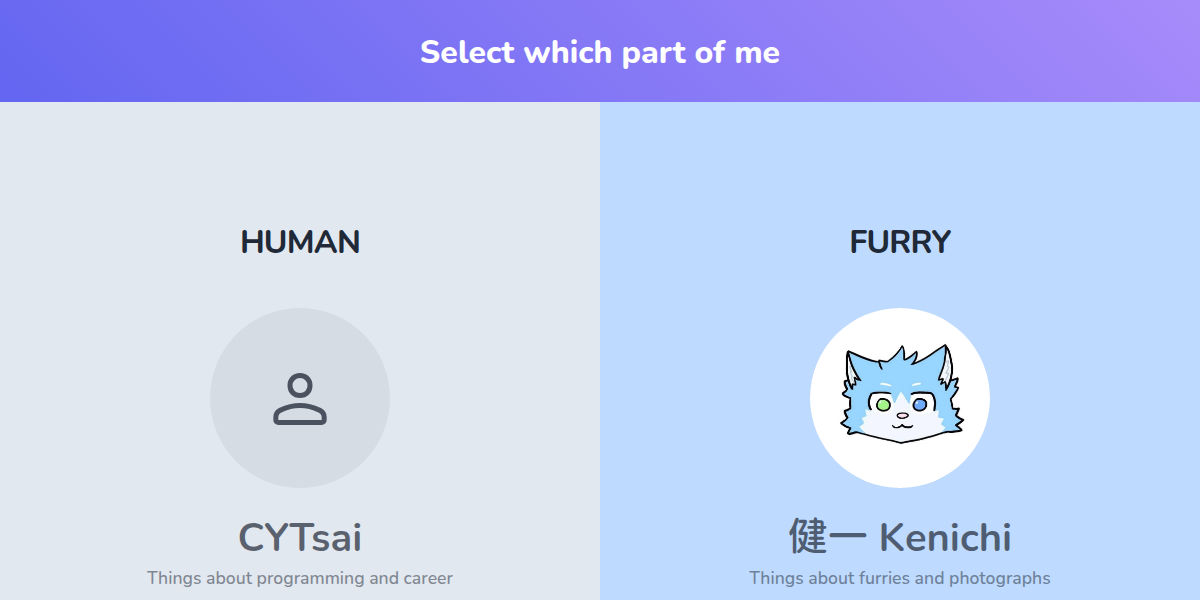
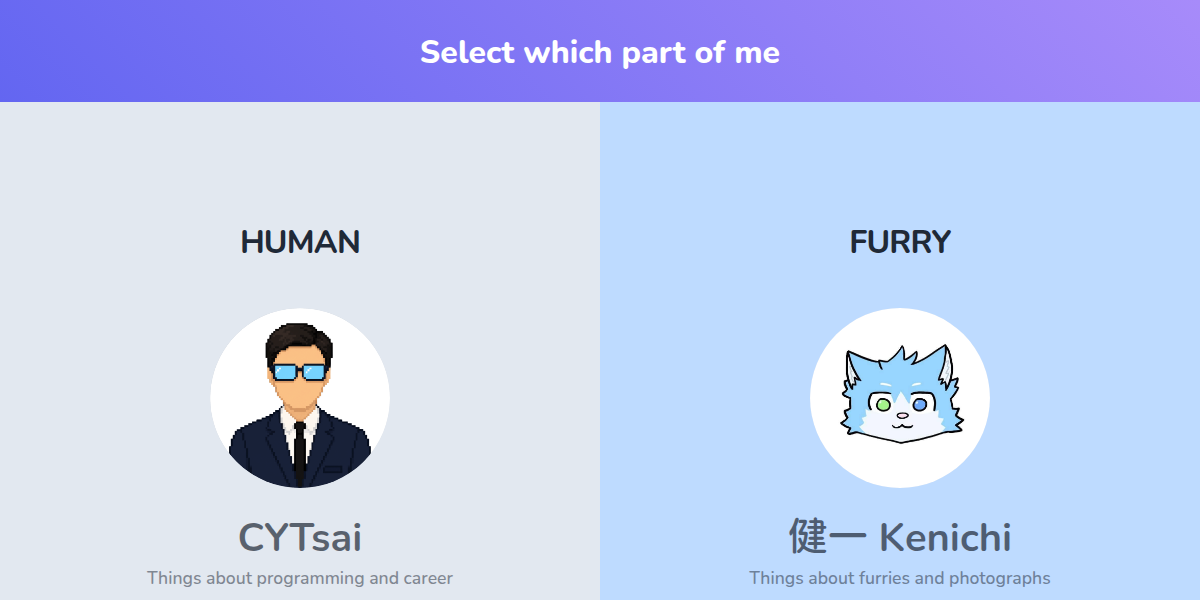
deploy: 8c345a34f462c4d85bce13f67262ac0d6268f400

Changed region(s): [[0.1542, 0.51, 0.3392, 0.81]]

diff --git a/index.html b/index.html
@@ -1,1 +1,1 @@
-<!DOCTYPE html><html lang="en"><meta charset="UTF-8"><meta name="viewport" content="width=device-width,initial-scale=1,viewport-fit=cover"><title data-translate="title">Welcome to photocat.blue</title><link rel="icon" href="assets/img/favicon.svg" type="image/svg+xml"><link rel="icon" href="assets/img/favicon-32.png" type="image/png" sizes="32x32"><link rel="icon" href="assets/img/favicon-16.png" type="image/png" sizes="16x16"><link rel="preload" href="assets/img/furry_avatar.png" as="image"><link rel="preconnect" href="https://fonts.googleapis.com"><link rel="preconnect" href="https://fonts.gstatic.com" crossorigin><link href="https://fonts.googleapis.com/css2?family=Chiron+GoRound+TC:wght@200..900&display=swap" rel="stylesheet"><link href="https://fonts.googleapis.com/css2?family=Material+Symbols+Rounded:opsz,wght,FILL@24..48,100..700,0..1&icon_names=brightness_auto,dark_mode,light_mode,person,search_off" rel="stylesheet"><link rel="stylesheet" href="style.css"><noscript><style>.material-symbols-rounded{opacity:1}</style></noscript><meta property="og:url" content="https://photocat.blue/"><meta property="og:type" content="website"><meta property="og:title" content="Welcome to photocat.blue"><meta property="og:description" content="The main website of CYTsai / Kenichi."><meta property="og:image" content="https://photocat.blue/assets/img/screenshot.png"><meta property="og:image:width" content="1200"><meta property="og:image:height" content="600"><meta name="twitter:card" content="summary_large_image"><meta property="twitter:domain" content="cytsai1008.github.io"><meta property="twitter:url" content="https://photocat.blue/"><meta name="twitter:title" content="Welcome to photocat.blue"><meta name="twitter:description" content="The main website of CYTsai / Kenichi."><meta name="twitter:image" content="https://photocat.blue/assets/img/screenshot.png"><script async src="https://www.googletagmanager.com/gtag/js?id=G-SQ0794KNB9"></script><script>function gtag(){dataLayer.push(arguments)}window.dataLayer=window.dataLayer||[],gtag("js",new Date),gtag("config","G-SQ0794KNB9")</script><script type="text/javascript">!function(t,e,n,c,r,a,s){t[n]=t[n]||function(){(t[n].q=t[n].q||[]).push(arguments)},(a=e.createElement(c)).async=1,a.src="https://www.clarity.ms/tag/vu4ufrmc3w",(s=e.getElementsByTagName(c)[0]).parentNode.insertBefore(a,s)}(window,document,"clarity","script")</script><meta name="darkreader-lock"><a href="#main-content" class="skip-link">Skip to main content</a><header class="main-header"><h1 data-translate="headerTitle">Select which part of me</h1></header><div class="main-container"><div class="desktop-layout"><a href="https://cytsai.photocat.blue" class="life-section real-life" id="main-content"><div class="section-header"><h2 class="section-title" data-translate="realLifeTitle">Human</h2></div><div class="profile-container"><div class="profile-image"><span class="material-symbols-rounded" aria-hidden="true">person</span></div><div class="name-section"><div class="name-text" data-translate="realLifeName">CYTsai</div><div class="subtitle-text" data-translate="realLifeSubtitle">Things about programming and career</div></div></div></a><a href="https://kenichi.photocat.blue" class="life-section furry-life"><div class="section-header"><h2 class="section-title" data-translate="furryLifeTitle">Furry</h2></div><div class="profile-container"><div class="profile-image"><img src="assets/img/furry_avatar.png" alt="Furry Avatar" width="180" height="180"></div><div class="name-section"><div class="name-text" data-translate="furryLifeName">健一 Kenichi</div><div class="subtitle-text" data-translate="furryLifeSubtitle">Things about furries and photographs</div></div></div></a></div></div><footer class="footer"><div class="theme-switcher"><button id="theme-switcher-button" class="theme-button" aria-label="Theme switcher"><span class="material-symbols-rounded theme-icon" id="theme-icon" aria-hidden="true"></span></button><div id="theme-dropdown" class="theme-dropdown"><button data-theme="light"><span class="material-symbols-rounded" aria-hidden="true">light_mode</span> <span data-translate="lightMode">Light</span></button> <button data-theme="dark"><span class="material-symbols-rounded" aria-hidden="true">dark_mode</span> <span data-translate="darkMode">Dark</span></button> <button data-theme="system"><span class="material-symbols-rounded" aria-hidden="true">brightness_auto</span> <span data-translate="systemMode">System</span></button></div></div><p>Made with <span class="cat-emoji"><picture><source srcset="https://fonts.gstatic.com/s/e/notoemoji/latest/1f63a/512.webp" type="image/webp"><img src="https://fonts.gstatic.com/s/e/notoemoji/latest/1f63a/512.gif" alt="😺" width="24" height="24"></picture></span>by CYTsai / Kenichi in 2025.</footer><script src="script.js"></script>
+<!DOCTYPE html><html lang="en"><meta charset="UTF-8"><meta name="viewport" content="width=device-width,initial-scale=1,viewport-fit=cover"><title data-translate="title">Welcome to photocat.blue</title><link rel="icon" href="assets/img/favicon.svg" type="image/svg+xml"><link rel="icon" href="assets/img/favicon-32.png" type="image/png" sizes="32x32"><link rel="icon" href="assets/img/favicon-16.png" type="image/png" sizes="16x16"><link rel="preload" href="assets/img/real_avatar.png" as="image"><link rel="preload" href="assets/img/furry_avatar.png" as="image"><link rel="preconnect" href="https://fonts.googleapis.com"><link rel="preconnect" href="https://fonts.gstatic.com" crossorigin><link href="https://fonts.googleapis.com/css2?family=Chiron+GoRound+TC:wght@200..900&display=swap" rel="stylesheet"><link href="https://fonts.googleapis.com/css2?family=Material+Symbols+Rounded:opsz,wght,FILL@24..48,100..700,0..1&icon_names=brightness_auto,dark_mode,light_mode,search_off" rel="stylesheet"><link rel="stylesheet" href="style.css"><noscript><style>.material-symbols-rounded{opacity:1}</style></noscript><meta property="og:url" content="https://photocat.blue/"><meta property="og:type" content="website"><meta property="og:title" content="Welcome to photocat.blue"><meta property="og:description" content="The main website of CYTsai / Kenichi."><meta property="og:image" content="https://photocat.blue/assets/img/screenshot.png"><meta property="og:image:width" content="1200"><meta property="og:image:height" content="600"><meta name="twitter:card" content="summary_large_image"><meta property="twitter:domain" content="cytsai1008.github.io"><meta property="twitter:url" content="https://photocat.blue/"><meta name="twitter:title" content="Welcome to photocat.blue"><meta name="twitter:description" content="The main website of CYTsai / Kenichi."><meta name="twitter:image" content="https://photocat.blue/assets/img/screenshot.png"><script async src="https://www.googletagmanager.com/gtag/js?id=G-SQ0794KNB9"></script><script>function gtag(){dataLayer.push(arguments)}window.dataLayer=window.dataLayer||[],gtag("js",new Date),gtag("config","G-SQ0794KNB9")</script><script type="text/javascript">!function(t,e,n,c,r,a,s){t[n]=t[n]||function(){(t[n].q=t[n].q||[]).push(arguments)},(a=e.createElement(c)).async=1,a.src="https://www.clarity.ms/tag/vu4ufrmc3w",(s=e.getElementsByTagName(c)[0]).parentNode.insertBefore(a,s)}(window,document,"clarity","script")</script><meta name="darkreader-lock"><a href="#main-content" class="skip-link">Skip to main content</a><header class="main-header"><h1 data-translate="headerTitle">Select which part of me</h1></header><div class="main-container"><div class="desktop-layout"><a href="https://cytsai.photocat.blue" class="life-section real-life" id="main-content"><div class="section-header"><h2 class="section-title" data-translate="realLifeTitle">Human</h2></div><div class="profile-container"><div class="profile-image"><img src="assets/img/real_avatar.png" alt="Real Life Avatar" width="180" height="180"></div><div class="name-section"><div class="name-text" data-translate="realLifeName">CYTsai</div><div class="subtitle-text" data-translate="realLifeSubtitle">Things about programming and career</div></div></div></a><a href="https://kenichi.photocat.blue" class="life-section furry-life"><div class="section-header"><h2 class="section-title" data-translate="furryLifeTitle">Furry</h2></div><div class="profile-container"><div class="profile-image"><img src="assets/img/furry_avatar.png" alt="Furry Avatar" width="180" height="180"></div><div class="name-section"><div class="name-text" data-translate="furryLifeName">健一 Kenichi</div><div class="subtitle-text" data-translate="furryLifeSubtitle">Things about furries and photographs</div></div></div></a></div></div><footer class="footer"><div class="theme-switcher"><button id="theme-switcher-button" class="theme-button" aria-label="Theme switcher"><span class="material-symbols-rounded theme-icon" id="theme-icon" aria-hidden="true"></span></button><div id="theme-dropdown" class="theme-dropdown"><button data-theme="light"><span class="material-symbols-rounded" aria-hidden="true">light_mode</span> <span data-translate="lightMode">Light</span></button> <button data-theme="dark"><span class="material-symbols-rounded" aria-hidden="true">dark_mode</span> <span data-translate="darkMode">Dark</span></button> <button data-theme="system"><span class="material-symbols-rounded" aria-hidden="true">brightness_auto</span> <span data-translate="systemMode">System</span></button></div></div><p>Made with <span class="cat-emoji"><picture><source srcset="https://fonts.gstatic.com/s/e/notoemoji/latest/1f63a/512.webp" type="image/webp"><img src="https://fonts.gstatic.com/s/e/notoemoji/latest/1f63a/512.gif" alt="😺" width="24" height="24"></picture></span>by CYTsai / Kenichi in 2025.</footer><script src="script.js"></script>
